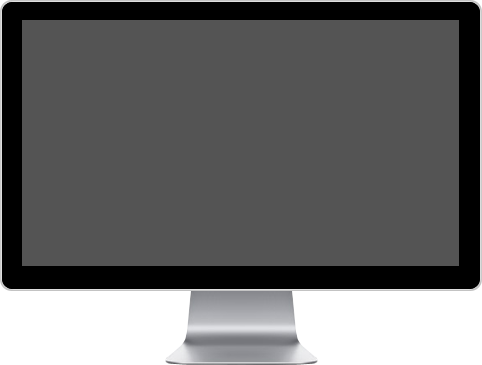
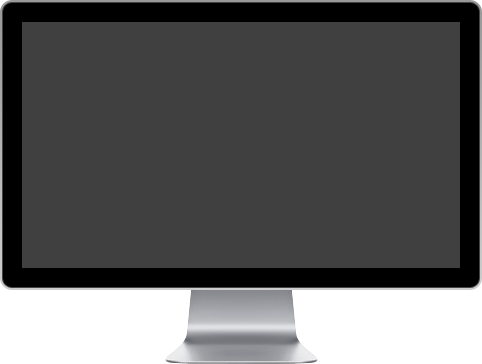
Sightly modify monitor image

diff --git a/BadAppleScr2/ConfigWindow.xaml b/BadAppleScr2/ConfigWindow.xaml
@@ -16,7 +16,7 @@
         
         
         <Image Name="monitor" Grid.Column="0" Grid.Row="0" Source="/BadAppleScr2;component/Images/monitor.png" />
-        <MediaElement Name="VideoElement" Margin="77,10,77,54"
+        <MediaElement Name="VideoElement" Margin="76,12,77,53"
                       LoadedBehavior="Play"
                       MediaEnded="VideoElement_MediaEnded" MediaOpened="VideoElement_MediaOpened"
                       >
